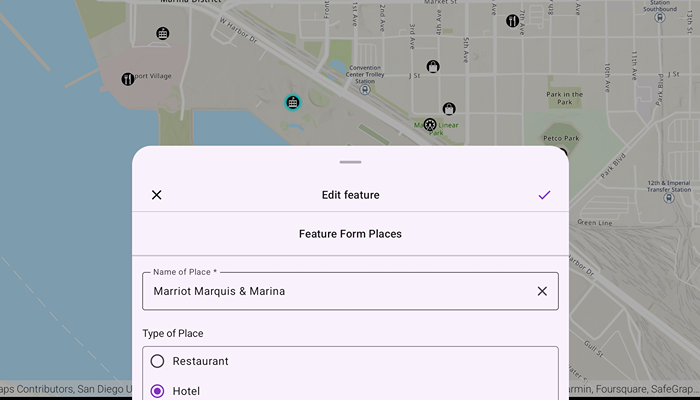
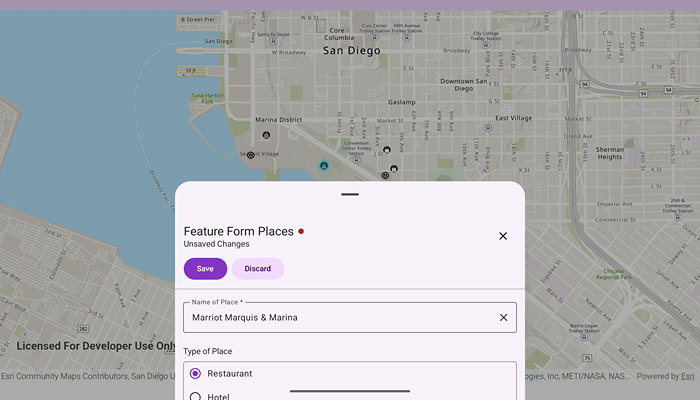
Update `FeatureForm` sample (#468)

diff --git a/samples/edit-features-using-feature-forms/src/main/java/com/esri/arcgismaps/sample/editfeaturesusingfeatureforms/screens/MainScreen.kt b/samples/edit-features-using-feature-forms/src/main/java/com/esri/arcgismaps/sample/editfeaturesusingfeatureforms/screens/MainScreen.kt
@@ -29,25 +29,19 @@ import androidx.compose.foundation.layout.navigationBarsPadding
 import androidx.compose.foundation.layout.padding
 import androidx.compose.foundation.layout.wrapContentSize
 import androidx.compose.foundation.lazy.LazyColumn
-import androidx.compose.material.icons.Icons
-import androidx.compose.material.icons.filled.Check
-import androidx.compose.material.icons.filled.Close
 import androidx.compose.material3.AlertDialog
 import androidx.compose.material3.Button
 import androidx.compose.material3.Card
 import androidx.compose.material3.CircularProgressIndicator
 import androidx.compose.material3.ExperimentalMaterial3Api
-import androidx.compose.material3.HorizontalDivider
-import androidx.compose.material3.Icon
-import androidx.compose.material3.IconButton
 import androidx.compose.material3.MaterialTheme
 import androidx.compose.material3.ModalBottomSheet
 import androidx.compose.material3.OutlinedButton
 import androidx.compose.material3.Scaffold
+import androidx.compose.material3.SheetValue
 import androidx.compose.material3.Text
 import androidx.compose.material3.rememberModalBottomSheetState
 import androidx.compose.runtime.Composable
-import androidx.compose.runtime.LaunchedEffect
 import androidx.compose.runtime.collectAsState
 import androidx.compose.runtime.getValue
 import androidx.compose.runtime.mutableStateOf
@@ -62,6 +56,7 @@ import androidx.compose.ui.tooling.preview.Preview
 import androidx.compose.ui.unit.dp
 import androidx.compose.ui.window.Dialog
 import com.arcgismaps.toolkit.featureforms.FeatureForm
+import com.arcgismaps.toolkit.featureforms.FeatureFormEditingEvent
 import com.arcgismaps.toolkit.featureforms.FeatureFormState
 import com.arcgismaps.toolkit.featureforms.ValidationErrorVisibility
 import com.arcgismaps.toolkit.featureforms.theme.FeatureFormDefaults
@@ -79,17 +74,29 @@ import kotlinx.coroutines.launch
 fun MainScreen(mapViewModel: MapViewModel) {
 
     val scope = rememberCoroutineScope()
-    var showBottomSheet by remember { mutableStateOf(false) }
-    val sheetState = rememberModalBottomSheetState()
-
     // the feature form the currently selected feature
-    val featureForm by mapViewModel.featureForm.collectAsState()
+    val featureFormState = mapViewModel.featureFormState
+
     // the validation errors found when the edits are applied
     val formValidationErrors by mapViewModel.errors.collectAsState()
 
     // boolean trackers for save and discard edits dialogs
     var showSaveEditsDialog by remember { mutableStateOf(false) }
     var showDiscardEditsDialog by remember { mutableStateOf(false) }
+
+    // The bottom sheet state used to control the visibility of the feature form
+    val sheetState = rememberModalBottomSheetState(
+        confirmValueChange = { sheetValue ->
+            if (sheetValue != SheetValue.Hidden) return@rememberModalBottomSheetState true
+            if (featureFormState?.hasEdits() == true) {
+                // if there are unsaved edits, show the discard edits dialog
+                showDiscardEditsDialog = true
+                false
+            } else {
+                true
+            }
+        }
+    )
 
     Scaffold(
         modifier = Modifier.fillMaxSize(),
@@ -105,41 +112,54 @@ fun MainScreen(mapViewModel: MapViewModel) {
             onSingleTapConfirmed = { mapViewModel.onSingleTapConfirmed(it) }
         )
 
-        // update bottom sheet visibility when a feature is selected
-        LaunchedEffect(featureForm) {
-            showBottomSheet = featureForm != null
-        }
-
-        if (showBottomSheet && featureForm != null) {
+        if (featureFormState != null) {
             // display feature form bottom sheet
             ModalBottomSheet(
                 onDismissRequest = {
-                    showBottomSheet = false
-                    showDiscardEditsDialog = true
+                    // clear the selected feature when the bottom sheet is dismissed
+                    mapViewModel.clearSelection()
                 },
                 sheetState = sheetState
             ) {
-                // top bar to manage save or discard edits
-                TopFormBar(
-                    onClose = { showDiscardEditsDialog = true },
-                    onSave = {
-                        showSaveEditsDialog = true
-                        mapViewModel.applyEdits {
-                            scope.launch {
-                                sheetState.hide()
-                                showBottomSheet = false
-                                showSaveEditsDialog = false
-                            }
-                        }
-                    })
                 // display the selected feature form using the Toolkit component
                 FeatureForm(
-                    featureFormState = FeatureFormState(featureForm!!, scope),
+                    featureFormState = featureFormState,
                     modifier = Modifier
                         .fillMaxSize()
                         .padding(top = 20.dp)
                         .navigationBarsPadding(),
+                    showCloseIcon = true,
                     validationErrorVisibility = ValidationErrorVisibility.Automatic,
+                    onDismiss = {
+                        // if there are edits, show the discard edits dialog, otherwise hide the
+                        // bottom sheet
+                        if (featureFormState.hasEdits()) {
+                            showDiscardEditsDialog = true
+                        } else {
+                            scope.launch {
+                                sheetState.hide()
+                                mapViewModel.clearSelection()
+                            }
+                        }
+                    },
+                    onEditingEvent = { event ->
+                        when (event) {
+                            is FeatureFormEditingEvent.SavedEdits -> {
+                                // when the save edits event is received, attempt to apply edits
+                                showSaveEditsDialog = true
+                                mapViewModel.applyEdits {
+                                    showSaveEditsDialog = false
+                                }
+                            }
+
+                            is FeatureFormEditingEvent.DiscardedEdits -> {
+                                // when the discard edits event is received, roll back any edits
+                                scope.launch {
+                                    mapViewModel.rollbackEdits()
+                                }
+                            }
+                        }
+                    },
                     colorScheme = FeatureFormDefaults.colorScheme(
                         groupElementColors = FeatureFormDefaults.groupElementColors(
                             outlineColor = MaterialTheme.colorScheme.secondary,
@@ -160,13 +180,13 @@ fun MainScreen(mapViewModel: MapViewModel) {
         }
     }
 
-    if (showSaveEditsDialog && formValidationErrors.isNotEmpty() && showBottomSheet) {
+    if (showSaveEditsDialog && formValidationErrors.isNotEmpty()) {
         // validation errors found, cancel the commit and show validation errors
         ValidationErrorsDialog(errors = formValidationErrors) {
             showSaveEditsDialog = false
             mapViewModel.cancelCommit()
         }
-    } else if (showSaveEditsDialog && showBottomSheet) {
+    } else if (showSaveEditsDialog) {
         // no validation errors found, show dialog when committing edits
         SaveFormDialog()
     }
@@ -174,16 +194,14 @@ fun MainScreen(mapViewModel: MapViewModel) {
     if (showDiscardEditsDialog) {
         DiscardEditsDialog(
             onConfirm = {
-                mapViewModel.rollbackEdits()
                 scope.launch {
+                    mapViewModel.rollbackEdits()
                     sheetState.hide()
                     showDiscardEditsDialog = false
-                    showBottomSheet = false
                 }
             },
             onCancel = {
                 showDiscardEditsDialog = false
-                showBottomSheet = true
             }
         )
     }
@@ -221,42 +239,6 @@ fun DiscardEditsDialog(onConfirm: () -> Unit, onCancel: () -> Unit) {
             Text(text = stringResource(R.string.all_changes_will_be_lost))
         }
     )
-}
-
-@Composable
-fun TopFormBar(
-    onClose: () -> Unit = {},
-    onSave: () -> Unit = {},
-) {
-    Column {
-        Row(
-            modifier = Modifier
-                .fillMaxWidth()
-                .padding(horizontal = 12.dp),
-            horizontalArrangement = Arrangement.Absolute.SpaceBetween,
-            verticalAlignment = Alignment.CenterVertically
-        ) {
-            IconButton(onClick = onClose) {
-                Icon(
-                    imageVector = Icons.Default.Close,
-                    contentDescription = "Close Feature Editor"
-                )
-            }
-            Text(
-                text = "Edit feature",
-                style = MaterialTheme.typography.titleMedium,
-                textAlign = TextAlign.Center
-            )
-            IconButton(onClick = onSave) {
-                Icon(
-                    imageVector = Icons.Default.Check,
-                    contentDescription = "Save Feature",
-                    tint = MaterialTheme.colorScheme.primary
-                )
-            }
-        }
-        HorizontalDivider()
-    }
 }
 
 @Composable
@@ -325,6 +307,13 @@ private fun ValidationErrorsDialog(errors: List<ErrorInfo>, onDismissRequest: ()
     )
 }
 
+/**
+ * Extension function to check if there are unsaved edits in the feature form.
+ */
+private fun FeatureFormState.hasEdits(): Boolean {
+    return this.activeFeatureForm.hasEdits.value
+}
+
 @Preview
 @Preview(uiMode = Configuration.UI_MODE_NIGHT_YES)
 @Composable
@@ -344,10 +333,4 @@ fun ValidationErrorsPreview() {
 @Composable
 fun DiscardEditsDialogPreview() {
     SampleAppTheme { DiscardEditsDialog(onConfirm = {}) {} }
-}
-
-@Preview(showBackground = true)
-@Composable
-fun TopFormBarPreview() {
-    SampleAppTheme { TopFormBar() }
 }

diff --git a/samples/edit-features-using-feature-forms/src/main/java/com/esri/arcgismaps/sample/editfeaturesusingfeatureforms/components/MapViewModel.kt b/samples/edit-features-using-feature-forms/src/main/java/com/esri/arcgismaps/sample/editfeaturesusingfeatureforms/components/MapViewModel.kt
@@ -17,6 +17,7 @@
 package com.esri.arcgismaps.sample.editfeaturesusingfeatureforms.components
 
 import android.app.Application
+import androidx.compose.runtime.mutableStateOf
 import androidx.compose.ui.unit.dp
 import androidx.lifecycle.AndroidViewModel
 import androidx.lifecycle.viewModelScope
@@ -32,6 +33,7 @@ import com.arcgismaps.mapping.featureforms.FormElement
 import com.arcgismaps.mapping.featureforms.GroupFormElement
 import com.arcgismaps.mapping.layers.FeatureLayer
 import com.arcgismaps.mapping.view.SingleTapConfirmedEvent
+import com.arcgismaps.toolkit.featureforms.FeatureFormState
 import com.arcgismaps.toolkit.geoviewcompose.MapViewProxy
 import com.esri.arcgismaps.sample.editfeaturesusingfeatureforms.R
 import com.esri.arcgismaps.sample.sampleslib.components.MessageDialogViewModel
@@ -53,8 +55,9 @@ class MapViewModel(application: Application) : AndroidViewModel(application) {
     val map = ArcGISMap(portalItem)
 
     // keep track of the selected feature form
-    private val _featureForm = MutableStateFlow<FeatureForm?>(null)
-    val featureForm: StateFlow<FeatureForm?> = _featureForm.asStateFlow()
+    private val _featureFormState = mutableStateOf<FeatureFormState?>(null)
+    val featureFormState: FeatureFormState?
+        get() = _featureFormState.value
 
     // keep track of the list of validation errors
     private val _errors = MutableStateFlow<List<ErrorInfo>>(listOf())
@@ -78,7 +81,7 @@ class MapViewModel(application: Application) : AndroidViewModel(application) {
      * @param onEditsCompleted Invoked when edits are applied successfully
      */
     fun applyEdits(onEditsCompleted: () -> Unit) {
-        val featureForm = _featureForm.value
+        val featureForm = featureFormState?.activeFeatureForm
             ?: return messageDialogVM.showMessageDialog("Feature form state is not configured")
 
         // update the state flow with the list of validation errors found
@@ -161,13 +164,19 @@ class MapViewModel(application: Application) : AndroidViewModel(application) {
     }
 
     /**
+     * Unselects the feature from the layer and resets the [featureFormState].
+     */
+    fun clearSelection() {
+        val featureForm = featureFormState?.activeFeatureForm
+        (featureForm?.feature?.featureTable?.layer as FeatureLayer).clearSelection()
+        _featureFormState.value = null
+    }
+
+    /**
      * Discard edits and unselects feature from the layer
      */
-    fun rollbackEdits() {
-        // discard local edits to the feature form
-        _featureForm.value?.discardEdits()
-        // unselect the feature
-        (_featureForm.value?.feature?.featureTable?.layer as FeatureLayer).clearSelection()
+    suspend fun rollbackEdits() {
+        featureFormState?.discardEdits()
         // reset the validation errors
         _errors.value = listOf()
     }
@@ -194,7 +203,10 @@ class MapViewModel(application: Application) : AndroidViewModel(application) {
                             // select the feature
                             layer.selectFeature(feature)
                             // set the UI to an editing state with the FeatureForm
-                            _featureForm.value = featureForm
+                            _featureFormState.value = FeatureFormState(
+                                featureForm = featureForm,
+                                coroutineScope = viewModelScope
+                            )
                         }
                     }
                 } catch (e: Exception) {
